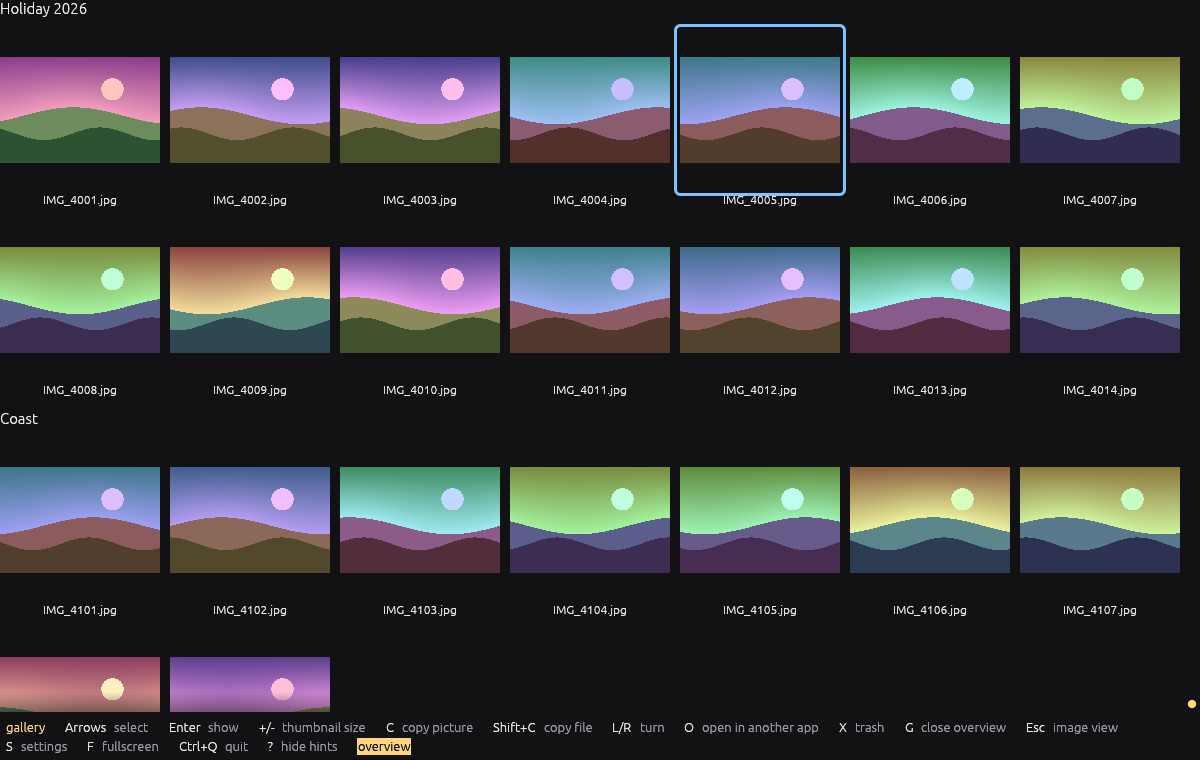
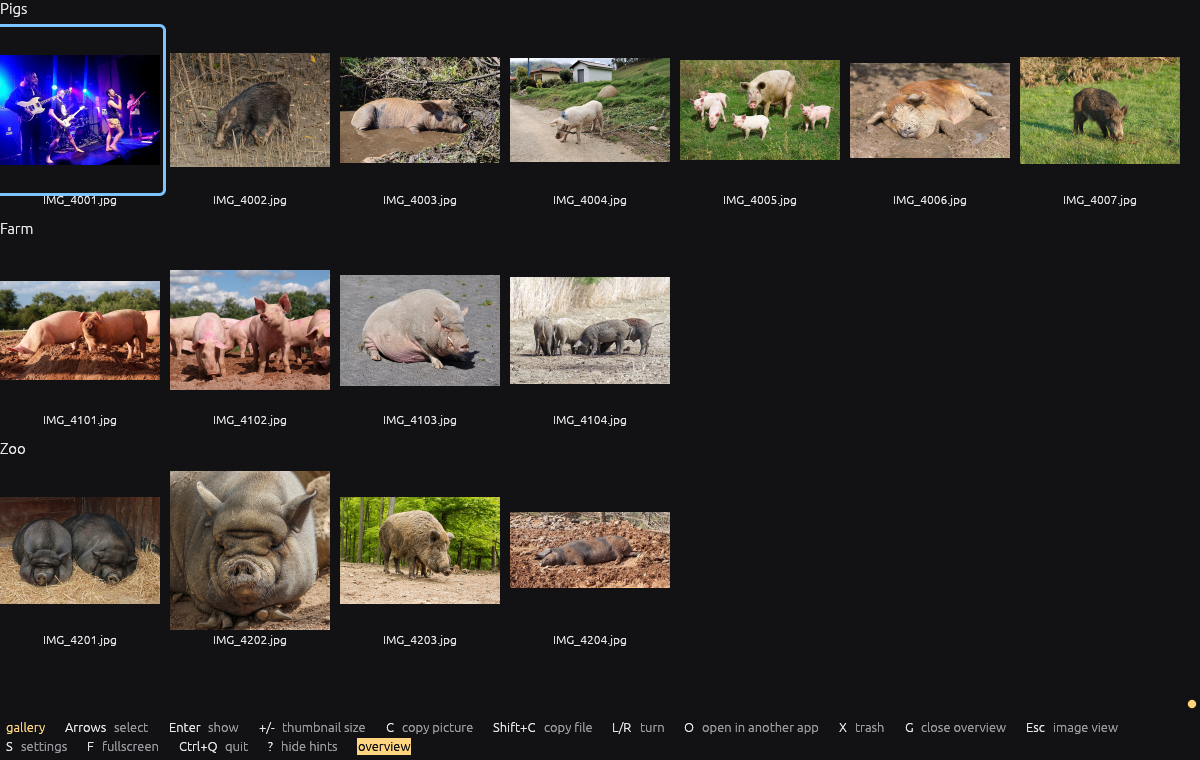
Show the band and real pig photos on the docs site

diff --git a/site/pages/index.html b/site/pages/index.html
@@ -39,3 +39,32 @@ never overwrites by accident.</li>
 <li><strong>Metadata.</strong> A panel with camera, lens, exposure, capture date and location;
 the capture date can be corrected in place, and the location or all EXIF can be removed.</li>
 </ul>
+<h2 id="the-name">The name</h2>
+<p>The name nods to the band Pigs Pigs Pigs Pigs Pigs Pigs Pigs
+(<a href="https://en.wikipedia.org/wiki/Pigs_Pigs_Pigs_Pigs_Pigs_Pigs_Pigs">Wikipedia</a>,
+<a href="https://open.spotify.com/artist/1F7QDWyZTLGzkyGLgFjEhU">Spotify</a>).</p>
+<figure class="screenshot">
+<img src="assets/pigsx7.jpg" width="960" height="659" loading="lazy" alt="Pigs Pigs Pigs Pigs Pigs Pigs Pigs on stage in Edinburgh: two guitarists, a bassist and the singer under blue and pink lights.">
+<figcaption>Pigs Pigs Pigs Pigs Pigs Pigs Pigs in Edinburgh, 2021. Photo by Mike Shaw,
+<a href="https://creativecommons.org/licenses/by-sa/4.0">CC BY-SA 4.0</a>.</figcaption>
+</figure>
+<h3 id="photo-credits">Photo credits</h3>
+<p>The screenshots on this site show these photos from Wikimedia Commons, scaled down to 960 pixels
+wide. The screenshots are shared under the same licences.</p>
+<ul>
+<li><code>IMG_4001.jpg</code>: <a href="https://commons.wikimedia.org/wiki/File:Pigs_Pigs_Pigs_Pigs_Pigs_Pigs_Pigs_(Pigsx7)_in_Edinburgh,_Scotland.jpg">Pigs Pigs Pigs Pigs Pigs Pigs Pigs (Pigsx7) in Edinburgh, Scotland</a> by Mike Shaw, <a href="https://creativecommons.org/licenses/by-sa/4.0">CC BY-SA 4.0</a></li>
+<li><code>IMG_4002.jpg</code>: <a href="https://commons.wikimedia.org/wiki/File:Indian_boar_in_Sundarbans_National_Park_February_2025_by_Tisha_Mukherjee_01.jpg">Indian boar in Sundarbans National Park February 2025 by Tisha Mukherjee 01</a> by Tisha Mukherjee, <a href="https://creativecommons.org/licenses/by-sa/4.0">CC BY-SA 4.0</a></li>
+<li><code>IMG_4003.jpg</code>: <a href="https://commons.wikimedia.org/wiki/File:Cochon_Corse-du-Sud.jpg">Cochon Corse-du-Sud</a> by Myrabella, <a href="https://creativecommons.org/licenses/by-sa/3.0">CC BY-SA 3.0</a></li>
+<li><code>IMG_4004.jpg</code>: <a href="https://commons.wikimedia.org/wiki/File:Ingapirca_roadside_pig.jpg">Ingapirca roadside pig</a> by Cayambe, <a href="https://creativecommons.org/licenses/by-sa/3.0">CC BY-SA 3.0</a></li>
+<li><code>IMG_4005.jpg</code>: <a href="https://commons.wikimedia.org/wiki/File:Pigs_in_the_Altai_Mountains._Village_Ortolyk.jpg">Pigs in the Altai Mountains. Village Ortolyk</a> by Alexandr frolov, <a href="https://creativecommons.org/licenses/by-sa/4.0">CC BY-SA 4.0</a></li>
+<li><code>IMG_4006.jpg</code>: <a href="https://commons.wikimedia.org/wiki/File:Domesticated_farm_pig_lying_in_the_mud_head_covered_in_dry_earth_under_the_sun_in_Don_Det_Laos.jpg">Domesticated farm pig lying in the mud head covered in dry earth under the sun in Don Det Laos</a> by Basile Morin, <a href="https://creativecommons.org/licenses/by-sa/4.0">CC BY-SA 4.0</a></li>
+<li><code>IMG_4007.jpg</code>: <a href="https://commons.wikimedia.org/wiki/File:Wild_boar_in_San_Rossore,_Pisa,_Italy.jpg">Wild boar in San Rossore, Pisa, Italy</a> by Daniele Napolitano, <a href="https://creativecommons.org/licenses/by-sa/4.0">CC BY-SA 4.0</a></li>
+<li><code>IMG_4101.jpg</code>: <a href="https://commons.wikimedia.org/wiki/File:Pig_farm_Vampula_1.jpg">Pig farm Vampula 1</a> by kallerna, <a href="https://creativecommons.org/licenses/by-sa/4.0">CC BY-SA 4.0</a></li>
+<li><code>IMG_4102.jpg</code>: <a href="https://commons.wikimedia.org/wiki/File:Pig_farm_Vampula_9.jpg">Pig farm Vampula 9</a> by kallerna, <a href="https://creativecommons.org/licenses/by-sa/4.0">CC BY-SA 4.0</a></li>
+<li><code>IMG_4103.jpg</code>: <a href="https://commons.wikimedia.org/wiki/File:G%C3%B6ttinger_Minischwein_qtl1.jpg">Göttinger Minischwein qtl1</a> by Quartl, <a href="https://creativecommons.org/licenses/by-sa/3.0">CC BY-SA 3.0</a></li>
+<li><code>IMG_4104.jpg</code>: <a href="https://commons.wikimedia.org/wiki/File:Pigs_on_a_farm_in_Rust,_Burgenland,_Austria,_20220425_1354_5124.jpg">Pigs on a farm in Rust, Burgenland, Austria, 20220425 1354 5124</a> by Jakub Hałun, <a href="https://creativecommons.org/licenses/by-sa/4.0">CC BY-SA 4.0</a></li>
+<li><code>IMG_4201.jpg</code>: <a href="https://commons.wikimedia.org/wiki/File:Pot-bellied_pigs_in_Lisbon_Zoo_2008.jpg">Pot-bellied pigs in Lisbon Zoo 2008</a> by Alvesgaspar, <a href="https://creativecommons.org/licenses/by-sa/4.0">CC BY-SA 4.0</a></li>
+<li><code>IMG_4202.jpg</code>: <a href="https://commons.wikimedia.org/wiki/File:Sus_scrofa_f_domesticus_-_R%C3%A9serve_africaine_de_Sigean_01.jpg">Sus scrofa f domesticus - Réserve africaine de Sigean 01</a> by H. Zell, <a href="https://creativecommons.org/licenses/by-sa/3.0">CC BY-SA 3.0</a></li>
+<li><code>IMG_4203.jpg</code>: <a href="https://commons.wikimedia.org/wiki/File:Wildsau_im_wilderlebnispark_daun.jpg">Wildsau im wilderlebnispark daun</a> by Superbass, <a href="https://creativecommons.org/licenses/by-sa/3.0">CC BY-SA 3.0</a></li>
+<li><code>IMG_4204.jpg</code>: <a href="https://commons.wikimedia.org/wiki/File:Cerdo_negro_canario.jpg">Cerdo negro canario</a> by H. Zell, <a href="https://creativecommons.org/licenses/by-sa/3.0">CC BY-SA 3.0</a></li>
+</ul>

diff --git a/site/pages/getting-around.html b/site/pages/getting-around.html
@@ -26,8 +26,8 @@ column while it is closed.</p>
 
 <h2>The image view</h2>
 <figure class="screenshot">
-<img src="assets/screenshots/image-view.png" width="1200" height="760" loading="lazy" alt="The image view: a landscape photo filling the window, the band of preloaded neighbours below it and the key line at the bottom.">
-<figcaption>The image view, with the band of preloaded files and the key line.</figcaption>
+<img src="assets/screenshots/image-view.png" width="1200" height="760" loading="lazy" alt="The image view: a photo of the band Pigs Pigs Pigs Pigs Pigs Pigs Pigs filling the window, the band of preloaded neighbours below it and the key line at the bottom.">
+<figcaption>The image view, with the band of preloaded files and the key line. <a href="index.html#photo-credits">Photo credits</a>.</figcaption>
 </figure>
 
 <p>While the pointer is over the image, arrows at its left and right edge step to the previous or
@@ -76,8 +76,8 @@ back with <kbd>b</kbd>, and stays hidden across starts until then.</p>
 
 <h2>The dir column</h2>
 <figure class="screenshot">
-<img src="assets/screenshots/dir-column.png" width="1200" height="760" loading="lazy" alt="The dir column on the left listing the folder Holiday 2026 among its siblings, the photo beside it.">
-<figcaption>The dir column, the current folder highlighted.</figcaption>
+<img src="assets/screenshots/dir-column.png" width="1200" height="760" loading="lazy" alt="The dir column on the left listing the folder Pigs, the band photo beside it.">
+<figcaption>The dir column, the current folder highlighted. <a href="index.html#photo-credits">Photo credits</a>.</figcaption>
 </figure>
 
 <p>The dir column lists the current folder among its siblings; moving through it moves the image
@@ -98,8 +98,8 @@ view along. A click on a folder goes there, a double-click goes into its first s
 
 <h2>The overview</h2>
 <figure class="screenshot">
-<img src="assets/screenshots/overview.png" width="1200" height="760" loading="lazy" alt="The overview: thumbnails of three folders in sections, one tile selected.">
-<figcaption>The overview, one section per folder.</figcaption>
+<img src="assets/screenshots/overview.png" width="1200" height="760" loading="lazy" alt="The overview: pig photos from three folders in sections, one tile selected.">
+<figcaption>The overview, one section per folder. <a href="index.html#photo-credits">Photo credits</a>.</figcaption>
 </figure>
 
 <p>A scrollable gallery of the current folder and every folder below it, with thumbnails shared

diff --git a/site/pages/trash-and-undo.html b/site/pages/trash-and-undo.html
@@ -28,8 +28,8 @@ pixpixpix says so.</p>
 
 <h2>The trash view</h2>
 <figure class="screenshot">
-<img src="assets/screenshots/trash.png" width="1200" height="760" loading="lazy" alt="The trash view: thumbnails of trashed photos grouped by the day they were trashed.">
-<figcaption>The trash view, by the day the files were trashed.</figcaption>
+<img src="assets/screenshots/trash.png" width="1200" height="760" loading="lazy" alt="The trash view: thumbnails of trashed pig photos grouped by the day they were trashed.">
+<figcaption>The trash view, by the day the files were trashed. <a href="index.html#photo-credits">Photo credits</a>.</figcaption>
 </figure>
 
 <p><kbd>t</kbd> shows the files of every trash, the home wastebin and the trash folders of mounted

diff --git a/site/pages/settings.html b/site/pages/settings.html
@@ -3,8 +3,8 @@
 saved.</p>
 
 <figure class="screenshot">
-<img src="assets/screenshots/settings.png" width="1200" height="760" loading="lazy" alt="The settings screen over a photo, with the browsing, other apps and default apps sections.">
-<figcaption>The settings, with the default apps per file type.</figcaption>
+<img src="assets/screenshots/settings.png" width="1200" height="760" loading="lazy" alt="The settings screen over the band photo, with the browsing, other apps and default apps sections.">
+<figcaption>The settings, with the default apps per file type. <a href="index.html#photo-credits">Photo credits</a>.</figcaption>
 </figure>
 <table>
 <thead><tr><th>Key</th><th>Action</th></tr></thead>

diff --git a/tests/screenshots.rs b/tests/screenshots.rs
@@ -1,5 +1,5 @@
 //! The screenshots of the documentation site: the app drawn headless with
-//! generated sample pictures, its triangles rasterized on the CPU, so the
+//! the photos of `tests/photos/`, its triangles rasterized on the CPU, so the
 //! pictures come out the same on every machine and need no GPU.
 //!
 //! `cargo test --test screenshots -- --ignored` writes them into
@@ -19,85 +19,39 @@ use pixpixpix::ui;
 /// The window the screenshots show, in points; one point is one pixel.
 const WINDOW: Vec2 = Vec2::new(1200.0, 760.0);
 
-const ROOT: &str = "/home/you/Pictures/Holiday 2026";
+const ROOT: &str = "/home/you/Pictures/Pigs";
 
-/// The sample folders and their files.
+/// The sample folders and their files; every file name is one photo in
+/// `tests/photos/`, credited on the site's overview page.
 fn folders() -> BTreeMap<PathBuf, Vec<PathBuf>> {
-    let folder = |name: &str, count: usize| {
-        let dir = Path::new(ROOT).join(name);
-        let files = (1..=count)
-            .map(|i| dir.join(format!("IMG_{:04}.jpg", 4100 + i)))
+    let folder = |dir: PathBuf, first: u32, count: u32| {
+        let files = (first..first + count)
+            .map(|n| dir.join(format!("IMG_{n}.jpg")))
             .collect();
         (dir, files)
     };
-    let mut folders = BTreeMap::from([folder("Coast", 9), folder("Mountains", 7)]);
-    let root = PathBuf::from(ROOT);
-    let files = (1..=14)
-        .map(|i| root.join(format!("IMG_{:04}.jpg", 4000 + i)))
-        .collect();
-    folders.insert(root, files);
-    folders
+    BTreeMap::from([
+        folder(PathBuf::from(ROOT), 4001, 7),
+        folder(Path::new(ROOT).join("Farm"), 4101, 4),
+        folder(Path::new(ROOT).join("Zoo"), 4201, 4),
+    ])
 }
 
-/// A small landscape for `path`: a sky, a sun and hills in colours of its own.
-fn picture(path: &Path, width: u32, height: u32) -> DecodedImage {
-    let seed = path
-        .to_string_lossy()
-        .bytes()
-        .fold(7u32, |h, b| h.wrapping_mul(31).wrapping_add(u32::from(b)));
-    let hue = (seed.wrapping_mul(2_654_435_761) >> 7) as f32 % 360.0;
-    let sky_top = hsv(hue, 0.55, 0.55);
-    let sky_low = hsv(hue + 40.0, 0.35, 0.95);
-    let sun = hsv(hue + 70.0, 0.25, 1.0);
-    let far = hsv(hue + 160.0, 0.35, 0.55);
-    let near = hsv(hue + 190.0, 0.45, 0.32);
-    let phase = (seed % 100) as f32 / 16.0;
-    let (w, h) = (width as f32, height as f32);
-    let mut rgba = Vec::with_capacity((width * height * 4) as usize);
-    for y in 0..height {
-        for x in 0..width {
-            let (u, v) = (x as f32 / w, y as f32 / h);
-            let far_line = 0.55 + 0.08 * (u * 5.0 + phase).sin();
-            let near_line = 0.72 + 0.06 * (u * 9.0 - phase).cos();
-            let (sx, sy) = (u - 0.7, (v - 0.3) * h / w);
-            let color = if v > near_line {
-                near
-            } else if v > far_line {
-                far
-            } else if (sx * sx + sy * sy).sqrt() < 0.07 {
-                sun
-            } else {
-                mix(sky_top, sky_low, v / far_line)
-            };
-            rgba.extend_from_slice(&[color[0], color[1], color[2], 255]);
-        }
+/// The photo for `path`, found by its file name, scaled to fit `size` when given.
+fn picture(path: &Path, size: Option<u32>) -> Result<DecodedImage, String> {
+    let photo = Path::new(env!("CARGO_MANIFEST_DIR"))
+        .join("tests/photos")
+        .join(path.file_name().unwrap_or_default());
+    let mut image = image::open(&photo).map_err(|e| format!("{}: {e}", photo.display()))?;
+    if let Some(size) = size {
+        image = image.thumbnail(size, size);
     }
-    DecodedImage {
-        width,
-        height,
-        rgba: Arc::from(rgba),
-    }
-}
-
-fn hsv(hue: f32, s: f32, v: f32) -> [u8; 3] {
-    let h = (hue % 360.0) / 60.0;
-    let c = v * s;
-    let x = c * (1.0 - (h % 2.0 - 1.0).abs());
-    let (r, g, b) = match h as u32 {
-        0 => (c, x, 0.0),
-        1 => (x, c, 0.0),
-        2 => (0.0, c, x),
-        3 => (0.0, x, c),
-        4 => (x, 0.0, c),
-        _ => (c, 0.0, x),
-    };
-    let m = v - c;
-    [r, g, b].map(|ch| ((ch + m) * 255.0).round() as u8)
-}
-
-fn mix(a: [u8; 3], b: [u8; 3], t: f32) -> [u8; 3] {
-    let t = t.clamp(0.0, 1.0);
-    [0, 1, 2].map(|i| (f32::from(a[i]) * (1.0 - t) + f32::from(b[i]) * t).round() as u8)
+    let rgba = image.to_rgba8();
+    Ok(DecodedImage {
+        width: rgba.width(),
+        height: rgba.height(),
+        rgba: Arc::from(rgba.into_raw()),
+    })
 }
 
 /// The app with its answers faked: files, thumbnails, the trash and the
@@ -146,11 +100,8 @@ impl Shot {
         let folders = folders();
         match command {
             Command::Decode(path) => {
-                let image = picture(&path, 1500, 1000);
-                self.handle(Event::Decoded {
-                    path,
-                    result: Ok(image),
-                });
+                let result = picture(&path, None);
+                self.handle(Event::Decoded { path, result });
             }
             Command::ListFolder(dir) => {
                 let files = folders.get(&dir).cloned().unwrap_or_default();
@@ -182,12 +133,8 @@ impl Shot {
                 self.handle(Event::OverviewScanned(scan));
             }
             Command::DecodeThumbnail { path, size } => {
-                let image = picture(&path, size, size * 2 / 3);
-                self.handle(Event::ThumbnailDecoded {
-                    path,
-                    size,
-                    result: Ok(image),
-                });
+                let result = picture(&path, Some(size));
+                self.handle(Event::ThumbnailDecoded { path, size, result });
             }
             Command::ListBin => self.handle(Event::BinListed(Ok(bin()))),
             Command::ReadDefaults { .. } => self.handle(Event::DefaultsRead(defaults())),
@@ -377,7 +324,7 @@ fn bin() -> Vec<BinItem> {
                 id: format!("{}.trashinfo", file.display()).into(),
                 file,
                 original: Some(original),
-                deleted: monday + if i < 6 { day } else { 0 } + i as i64 * 60,
+                deleted: monday + if i < 3 { day } else { 0 } + i as i64 * 60,
             }
         })
         .collect()
@@ -424,7 +371,7 @@ fn defaults() -> Defaults {
 }
 
 fn first_file() -> PathBuf {
-    Path::new(ROOT).join("IMG_4005.jpg")
+    Path::new(ROOT).join("IMG_4001.jpg")
 }
 
 /// The share of the canvas that is not the window's background.
